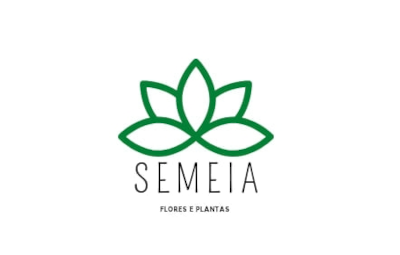
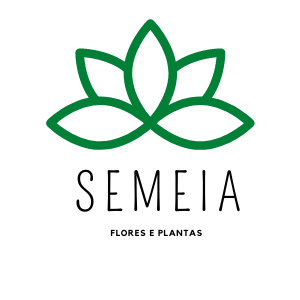
atualiza

Changed region(s): [[0.15, 0.0549, 0.87, 0.851], [0.72, 0.549, 0.81, 0.7137]]

diff --git a/style.css b/style.css
@@ -9,9 +9,10 @@ header {
 }
 li{display: inline-block;
    margin: 20px;
+   
 }
-}
-form{background-color: aquamarine;
+form{
+    background-color: aquamarine;
     width: 400px;
     height: 150px;
     text-align: center;
@@ -20,7 +21,8 @@ form{background-color: aquamarine;
 main { 
     display: flex;
     flex-direction: row;
-    width: 1000px
+    width: 1000px;
+    margin-left: 5%
 }
 article{ width:;
 
@@ -29,7 +31,14 @@ p{
     max-width: 500px;
 }
 img{
-    display: end;
-    width: 700px;
-    height: 500px;
+  align-items: flex-end;
+  margin-left: 40%;
+  margin-top: 10%;
+}
+a{
+    color: black;
+}
+a:hover{ 
+    color: green;
+    transition: 0.5s all ;
 }
